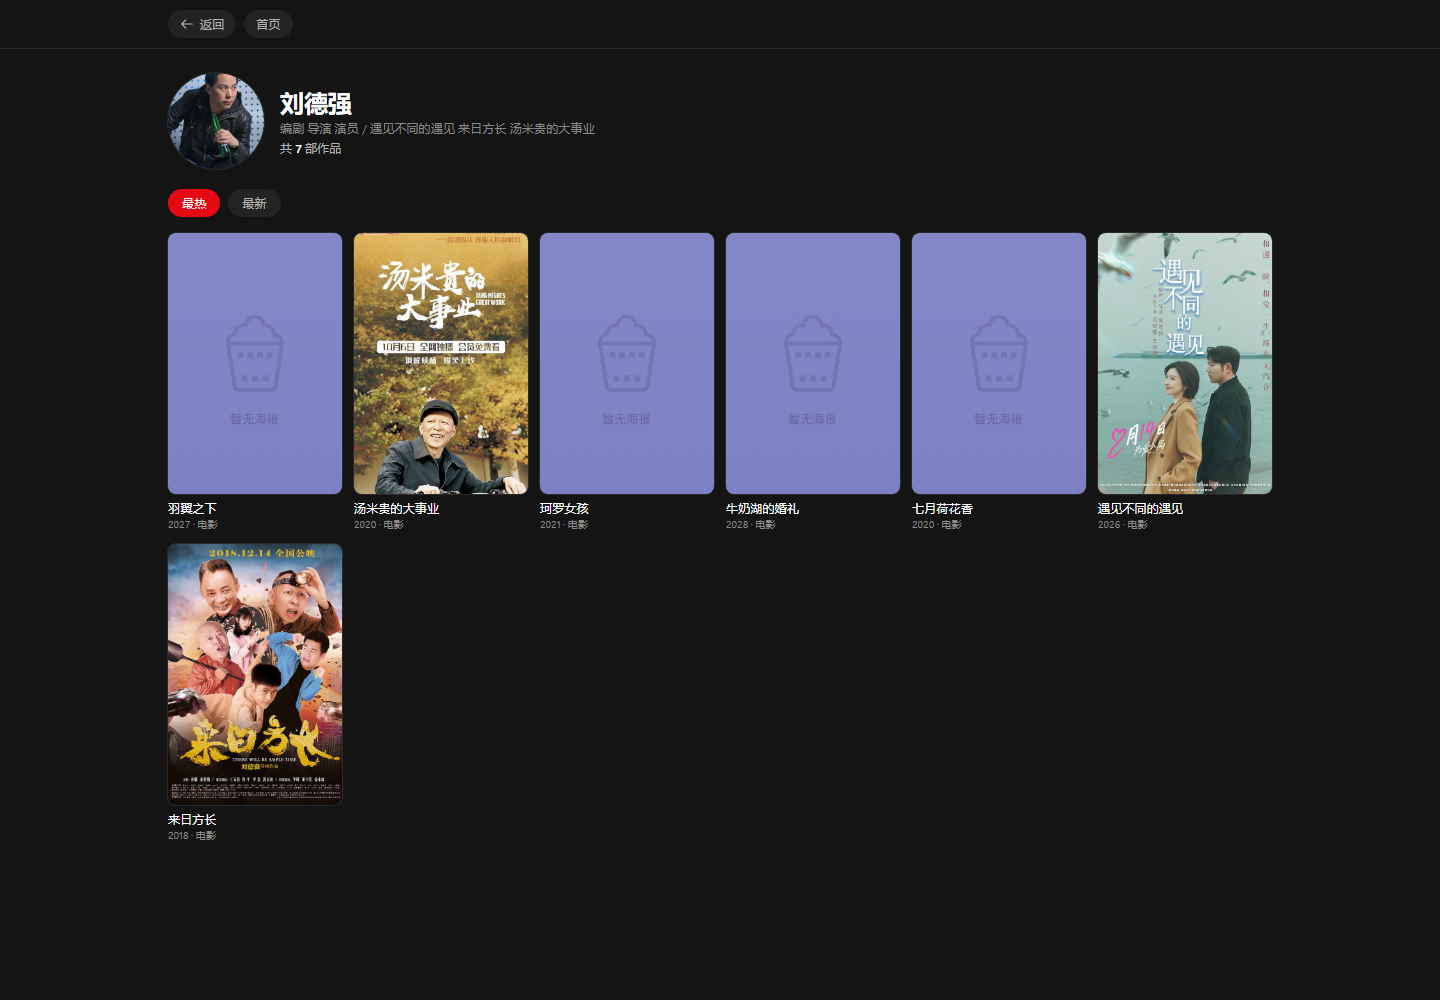
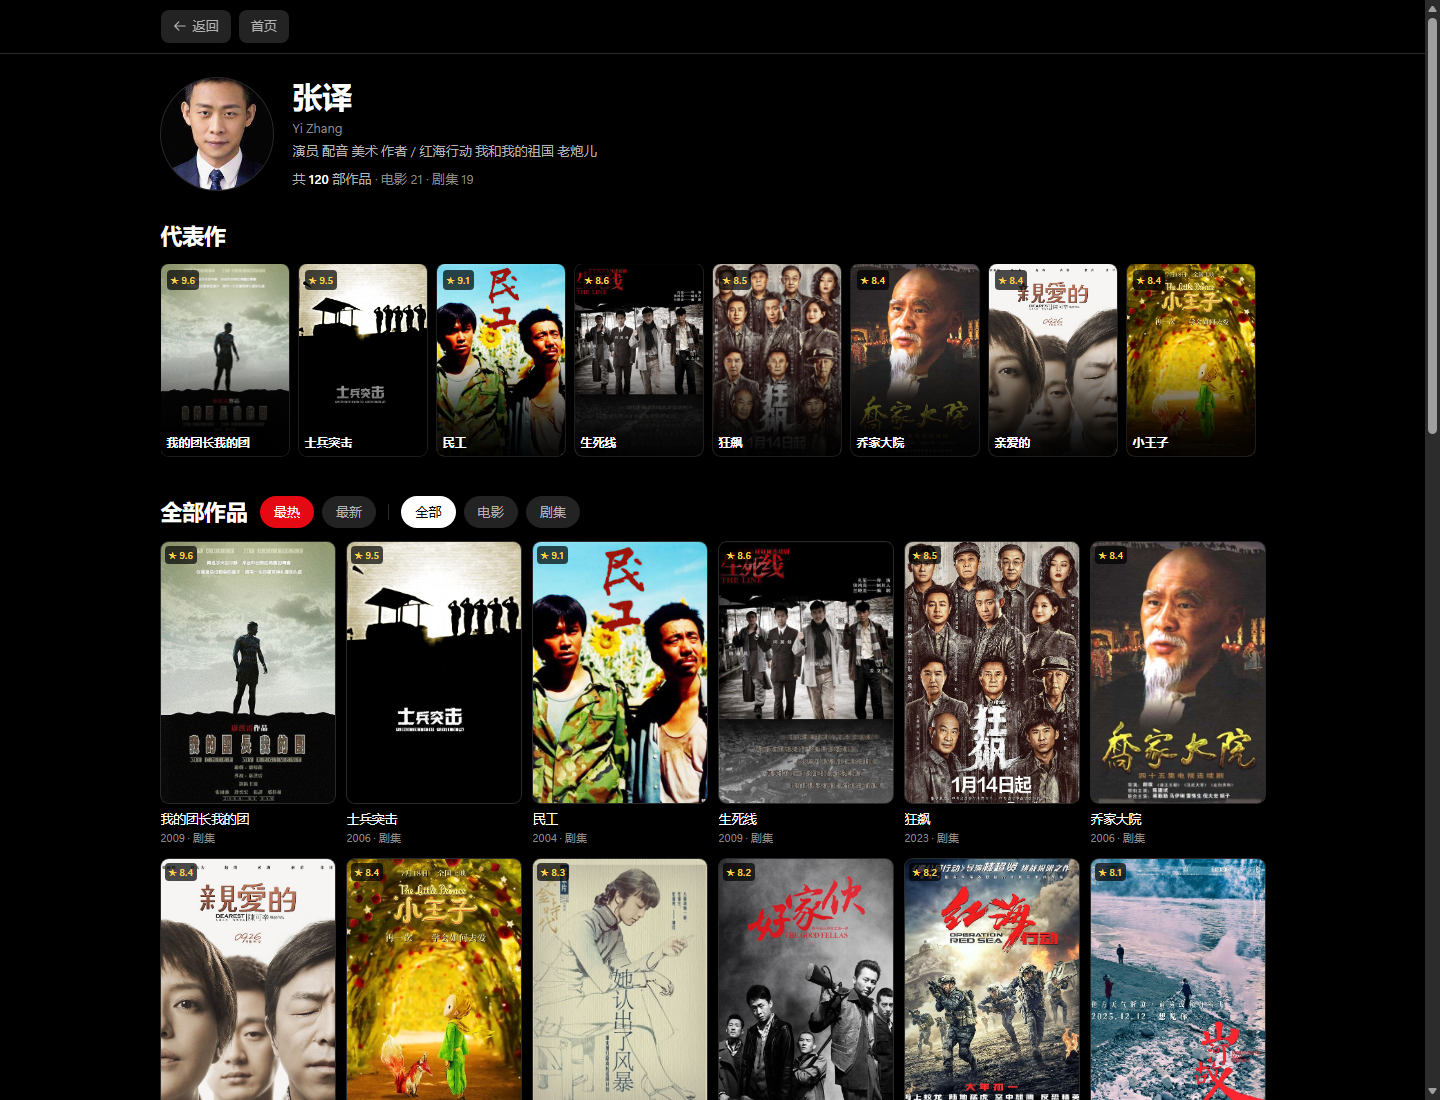
演员页重做：代表作高分行 + 电影/剧集筛选；继续观看补资料入口
- /person：顶部改成「头像 + 姓名 + 外文名 + 作品总数（电影 x · 剧集 y）」
- 新增「代表作」横滑行：按评分取前 8 部
- 「全部作品」加 最热/最新 排序 + 全部/电影/剧集 筛选（纯本地筛，不额外请求豆瓣）
- 首页继续观看：标题悬停显示「从 06:53 继续」，右上角加「资料」入口
- README 的演员页配图同步换成新版

diff --git a/app/src/app/person/[id]/page.tsx b/app/src/app/person/[id]/page.tsx
@@ -1,6 +1,6 @@
 'use client';
 
-import { useEffect, useState } from 'react';
+import { useEffect, useMemo, useState } from 'react';
 import { useParams, useRouter } from 'next/navigation';
 import Link from 'next/link';
 import { Icon } from '@/components/icon';
@@ -28,6 +28,7 @@ function proxied(url: string) {
 }
 
 type Sort = 'hot' | 'time';
+type Kind = 'all' | 'movie' | 'tv';
 
 export default function PersonPage() {
   const params = useParams<{ id: string }>();
@@ -37,6 +38,7 @@ export default function PersonPage() {
   const [works, setWorks] = useState<Work[]>([]);
   const [total, setTotal] = useState(0);
   const [sort, setSort] = useState<Sort>('hot');
+  const [kind, setKind] = useState<Kind>('all');
   const [loading, setLoading] = useState(true);
   const [err, setErr] = useState('');
 
@@ -63,18 +65,42 @@ export default function PersonPage() {
     };
   }, [id, sort]);
 
+  /** 电影 / 剧集筛选：纯本地筛，不再打豆瓣（那边一次只给一页，翻页还得再请求） */
+  const filtered = useMemo(
+    () => (kind === 'all' ? works : works.filter((w) => w.type === kind)),
+    [works, kind]
+  );
+
+  /** 代表作：按评分取前 8 部（没有评分的排在后面，不参与） */
+  const highlights = useMemo(
+    () =>
+      [...works]
+        .filter((w) => typeof w.rating === 'number' && w.rating > 0)
+        .sort((a, b) => (b.rating ?? 0) - (a.rating ?? 0))
+        .slice(0, 8),
+    [works]
+  );
+
+  const counts = useMemo(
+    () => ({
+      movie: works.filter((w) => w.type === 'movie').length,
+      tv: works.filter((w) => w.type === 'tv').length,
+    }),
+    [works]
+  );
+
   return (
-    <div className="min-h-screen bg-surface">
-      <div className="sticky top-0 z-30 border-b border-line bg-surface/90 backdrop-blur">
+    <div className="min-h-screen bg-page">
+      <div className="sticky top-0 z-30 border-b border-line bg-page/85 backdrop-blur">
         <div className="mx-auto flex max-w-6xl items-center gap-2 px-4 py-2.5 sm:px-6">
           <button
             onClick={() => router.back()}
-            className="flex items-center gap-1.5 rounded-full bg-chip px-3 py-1.5 text-xs text-muted hover:text-content"
+            className="flex items-center gap-1.5 rounded-lg bg-chip px-3 py-1.5 text-[13px] text-muted transition-colors hover:text-content"
           >
             <Icon name="arrowDown" className="h-3.5 w-3.5 rotate-90" />
             返回
           </button>
-          <Link href="/" className="rounded-full bg-chip px-3 py-1.5 text-xs text-muted hover:text-content">
+          <Link href="/" className="rounded-lg bg-chip px-3 py-1.5 text-[13px] text-muted transition-colors hover:text-content">
             首页
           </Link>
         </div>
@@ -82,9 +108,10 @@ export default function PersonPage() {
 
       <main className="mx-auto max-w-6xl px-4 pb-16 pt-6 sm:px-6">
         {/* 人物头 */}
-        <header className="flex items-center gap-4">
-          <div className="h-20 w-20 shrink-0 overflow-hidden rounded-full bg-chip ring-1 ring-line sm:h-24 sm:w-24">
+        <header className="flex items-center gap-5">
+          <div className="h-24 w-24 shrink-0 overflow-hidden rounded-full bg-chip ring-1 ring-line sm:h-28 sm:w-28">
             {person?.avatar ? (
+              // eslint-disable-next-line @next/next/no-img-element
               <img src={proxied(person.avatar)} alt={person.name} className="h-full w-full object-cover" />
             ) : (
               <div className="grid h-full w-full place-items-center text-2xl text-faint">
@@ -93,77 +120,136 @@ export default function PersonPage() {
             )}
           </div>
           <div className="min-w-0">
-            <h1 className="text-xl font-bold text-content sm:text-2xl">{person?.name || '加载中…'}</h1>
-            {person?.latinName && <p className="mt-0.5 text-xs text-faint">{person.latinName}</p>}
-            {person?.subtitle && <p className="mt-0.5 line-clamp-1 text-xs text-faint">{person.subtitle}</p>}
-            <p className="mt-1 text-xs text-muted">
+            <h1 className="text-2xl font-bold text-content sm:text-3xl">{person?.name || '加载中…'}</h1>
+            {person?.latinName && <p className="mt-1 text-[13px] text-faint">{person.latinName}</p>}
+            {person?.subtitle && <p className="mt-0.5 line-clamp-1 text-[13px] text-muted">{person.subtitle}</p>}
+            <p className="mt-2 text-[13px] text-muted">
               共 <span className="font-semibold text-content">{total || works.length}</span> 部作品
+              {works.length > 0 && (
+                <span className="text-faint">
+                  {' '}
+                  · 电影 {counts.movie} · 剧集 {counts.tv}
+                </span>
+              )}
             </p>
           </div>
         </header>
 
-        {/* 排序：热度 / 时间 */}
-        <div className="mt-5 flex items-center gap-2">
-          {(
-            [
-              ['hot', '最热'],
-              ['time', '最新'],
-            ] as const
-          ).map(([k, label]) => (
-            <button
-              key={k}
-              onClick={() => setSort(k)}
-              className={
-                'rounded-full px-3.5 py-1.5 text-xs transition-colors ' +
-                (sort === k
-                  ? 'bg-accent font-medium text-on-accent'
-                  : 'bg-chip text-muted hover:text-content')
-              }
-            >
-              {label}
-            </button>
-          ))}
-          {loading && <span className="text-xs text-faint">加载中…</span>}
-        </div>
-
-        {err && (
-          <div className="mt-5 rounded-xl border border-line bg-chip p-4 text-sm text-muted">{err}</div>
-        )}
-
-        {/* 作品网格：手机 3 列 / 平板 4-5 / 桌面 6 */}
-        <div className="mt-4 grid grid-cols-3 gap-2.5 sm:grid-cols-4 sm:gap-3 md:grid-cols-5 lg:grid-cols-6">
-          {works.map((w) => (
-            <Link key={w.id} href={`/title/${w.id}`} className="group block">
-              <div className="relative aspect-[2/3] overflow-hidden rounded-lg bg-chip ring-1 ring-line">
-                {w.cover ? (
-                  <img
-                    src={proxied(w.cover)}
-                    alt={w.title}
-                    loading="lazy"
-                    className="h-full w-full object-cover transition-transform duration-300 group-hover:scale-105"
-                  />
-                ) : (
-                  <div className="grid h-full w-full place-items-center px-1 text-center text-[10px] text-faint">
-                    {w.title}
+        {/* 代表作：高分优先，横滑一行——进来先看到「他最好的几部」，而不是一屏平铺 */}
+        {highlights.length > 0 && (
+          <section className="mt-8">
+            <h2 className="row-title mb-3.5 text-content">代表作</h2>
+            <div className="-mx-4 flex gap-2.5 overflow-x-auto px-4 pb-2 sm:mx-0 sm:px-0 [scrollbar-width:none] [&::-webkit-scrollbar]:hidden">
+              {highlights.map((w) => (
+                <Link key={`h-${w.id}`} href={`/title/${w.id}`} className="group/h w-[112px] shrink-0 sm:w-[128px]">
+                  <div className="relative aspect-[2/3] overflow-hidden rounded-lg bg-chip ring-1 ring-line/70">
+                    {w.cover && (
+                      // eslint-disable-next-line @next/next/no-img-element
+                      <img
+                        src={proxied(w.cover)}
+                        alt={w.title}
+                        loading="lazy"
+                        className="h-full w-full object-cover transition-transform duration-300 group-hover/h:scale-105"
+                      />
+                    )}
+                    {typeof w.rating === 'number' && (
+                      <span className="absolute left-1.5 top-1.5 rounded bg-black/70 px-1 py-0.5 text-[10px] font-semibold text-amber-300">
+                        ★ {w.rating.toFixed(1)}
+                      </span>
+                    )}
+                    <div className="poster-scrim absolute inset-x-0 bottom-0 h-[55%]" />
+                    <p className="poster-title absolute inset-x-0 bottom-0 line-clamp-2 p-1.5 text-[12px] leading-tight">
+                      {w.title}
+                    </p>
                   </div>
-                )}
-                {w.rating !== null && (
-                  <span className="absolute left-1 top-1 rounded bg-black/70 px-1 py-[1px] text-[10px] font-medium text-amber-300">
-                    ★ {w.rating.toFixed(1)}
-                  </span>
-                )}
-              </div>
-              <p className="mt-1.5 line-clamp-1 text-[11px] text-content sm:text-xs">{w.title}</p>
-              <p className="line-clamp-1 text-[10px] text-faint">
-                {[w.year, w.type === 'tv' ? '剧集' : '电影'].filter(Boolean).join(' · ')}
-              </p>
-            </Link>
-          ))}
-        </div>
-
-        {!loading && !err && works.length === 0 && (
-          <p className="mt-8 text-center text-sm text-faint">没有取到作品列表（豆瓣可能限流，稍后重试）</p>
+                </Link>
+              ))}
+            </div>
+          </section>
         )}
+
+        {/* 全部作品：排序 + 电影/剧集筛选 */}
+        <section className="mt-8">
+          <div className="mb-3.5 flex flex-wrap items-center gap-2">
+            <h2 className="row-title mr-1 text-content">全部作品</h2>
+            {(
+              [
+                ['hot', '最热'],
+                ['time', '最新'],
+              ] as const
+            ).map(([k, label]) => (
+              <button
+                key={k}
+                onClick={() => setSort(k)}
+                className={
+                  'rounded-full px-3.5 py-1.5 text-[13px] transition-colors ' +
+                  (sort === k ? 'bg-accent font-medium text-on-accent' : 'bg-chip text-muted hover:text-content')
+                }
+              >
+                {label}
+              </button>
+            ))}
+            <span className="mx-1 h-4 w-px bg-line" aria-hidden />
+            {(
+              [
+                ['all', '全部'],
+                ['movie', '电影'],
+                ['tv', '剧集'],
+              ] as const
+            ).map(([k, label]) => (
+              <button
+                key={k}
+                onClick={() => setKind(k)}
+                className={
+                  'rounded-full px-3.5 py-1.5 text-[13px] transition-colors ' +
+                  (kind === k ? 'bg-content font-medium text-page' : 'bg-chip text-muted hover:text-content')
+                }
+              >
+                {label}
+              </button>
+            ))}
+            {loading && <span className="text-[13px] text-faint">加载中…</span>}
+          </div>
+
+          {err && <div className="rounded-xl border border-line bg-chip p-4 text-sm text-muted">{err}</div>}
+
+          <div className="grid grid-cols-3 gap-2.5 sm:grid-cols-4 sm:gap-3 md:grid-cols-5 lg:grid-cols-6">
+            {filtered.map((w) => (
+              <Link key={w.id} href={`/title/${w.id}`} className="group block">
+                <div className="relative aspect-[2/3] overflow-hidden rounded-lg bg-chip ring-1 ring-line">
+                  {w.cover ? (
+                    // eslint-disable-next-line @next/next/no-img-element
+                    <img
+                      src={proxied(w.cover)}
+                      alt={w.title}
+                      loading="lazy"
+                      className="h-full w-full object-cover transition-transform duration-300 group-hover:scale-105"
+                    />
+                  ) : (
+                    <div className="grid h-full w-full place-items-center px-1 text-center text-[10px] text-faint">
+                      {w.title}
+                    </div>
+                  )}
+                  {typeof w.rating === 'number' && (
+                    <span className="absolute left-1 top-1 rounded bg-black/70 px-1 py-[1px] text-[10px] font-medium text-amber-300">
+                      ★ {w.rating.toFixed(1)}
+                    </span>
+                  )}
+                </div>
+                <p className="mt-1.5 line-clamp-1 text-[12.5px] text-content">{w.title}</p>
+                <p className="line-clamp-1 text-[11px] text-faint">
+                  {[w.year, w.type === 'tv' ? '剧集' : '电影'].filter(Boolean).join(' · ')}
+                </p>
+              </Link>
+            ))}
+          </div>
+
+          {!loading && !err && filtered.length === 0 && (
+            <p className="mt-8 text-center text-sm text-faint">
+              {works.length === 0 ? '没有取到作品列表（豆瓣可能限流，稍后重试）' : '这个筛选下没有作品'}
+            </p>
+          )}
+        </section>
       </main>
     </div>
   );

diff --git a/app/src/components/continue-watching.tsx b/app/src/components/continue-watching.tsx
@@ -3,7 +3,7 @@
 import { useEffect, useState } from 'react';
 import Link from 'next/link';
 import { db, type HistoryEntry } from '@/lib/db';
-import { buildWatchUrl, cn } from '@/lib/utils';
+import { buildWatchUrl, cn, formatTime } from '@/lib/utils';
 import { SmartImage } from './smart-image';
 import { useAppStore } from '@/lib/store';
 
@@ -71,18 +71,19 @@ export function ContinueWatchingRow({ className }: { className?: string }) {
           const left = Math.max(0, Math.round((it.duration - it.playbackPosition) / 60));
           const showImg = !!it.pic && !failed.has(it.id);
           return (
-            <Link
-              key={it.id}
-              href={buildWatchUrl({
-                sourceKey: it.sourceKey,
-                vodId: it.vodId,
-                index: it.episodeIndex,
-                title: it.title,
-                sourceUrl: it.sourceUrl,
-                position: it.playbackPosition,
-              })}
-              className="group/w w-[104px] shrink-0 sm:w-[124px]"
-            >
+            <div key={it.id} className="group/w relative w-[104px] shrink-0 sm:w-[124px]">
+              <Link
+                href={buildWatchUrl({
+                  sourceKey: it.sourceKey,
+                  vodId: it.vodId,
+                  index: it.episodeIndex,
+                  title: it.title,
+                  sourceUrl: it.sourceUrl,
+                  position: it.playbackPosition,
+                })}
+                className="block"
+                title={`从 ${formatTime(it.playbackPosition)} 继续 · ${it.title}`}
+              >
               <div className="relative aspect-[2/3] overflow-hidden rounded-lg bg-chip ring-1 ring-line/60">
                 {showImg ? (
                   <SmartImage
@@ -118,7 +119,22 @@ export function ContinueWatchingRow({ className }: { className?: string }) {
                 {it.totalEpisodes > 1 ? `第 ${it.episodeIndex + 1} 集 · ` : ''}
                 {left > 0 ? `剩余约 ${left} 分钟` : '快看完了'}
               </p>
-            </Link>
+              </Link>
+              {/* 资料入口：不想续播、只想看看这部的简介/演员时用 */}
+              <Link
+                href={`/detail/${encodeURIComponent(it.sourceKey)}/${encodeURIComponent(it.vodId)}?${new URLSearchParams(
+                  {
+                    name: it.title,
+                    ...(it.pic ? { pic: it.pic } : {}),
+                    ...(it.sourceUrl ? { su: it.sourceUrl } : {}),
+                  }
+                ).toString()}`}
+                className="absolute right-1 top-1 rounded-md bg-black/65 px-1.5 py-0.5 text-[10px] text-white/85 opacity-0 backdrop-blur transition-opacity group-hover/w:opacity-100 focus:opacity-100"
+                title="查看资料页"
+              >
+                资料
+              </Link>
+            </div>
           );
         })}
       </div>
